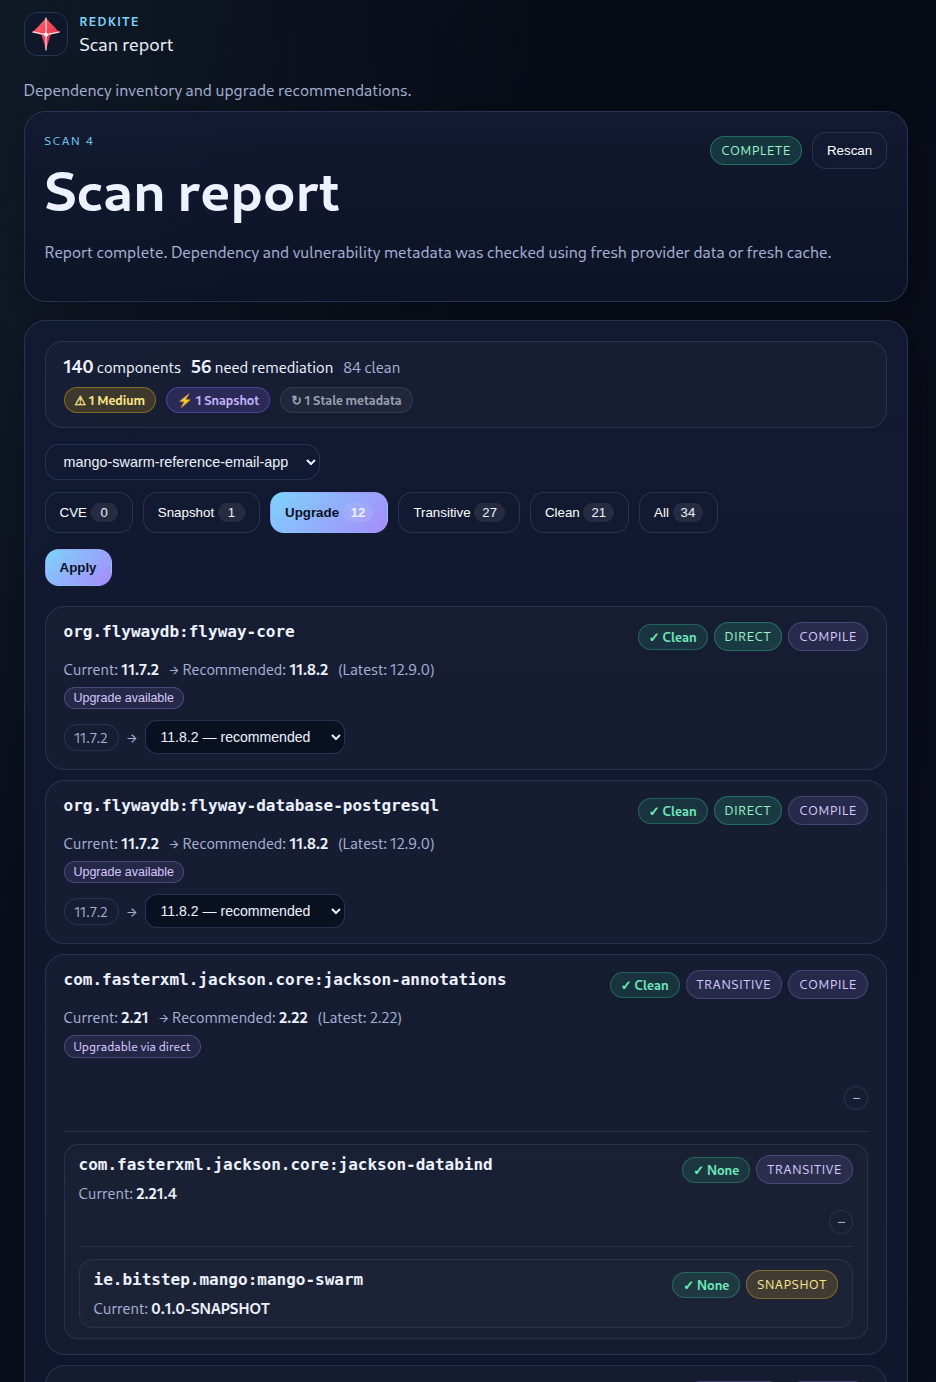
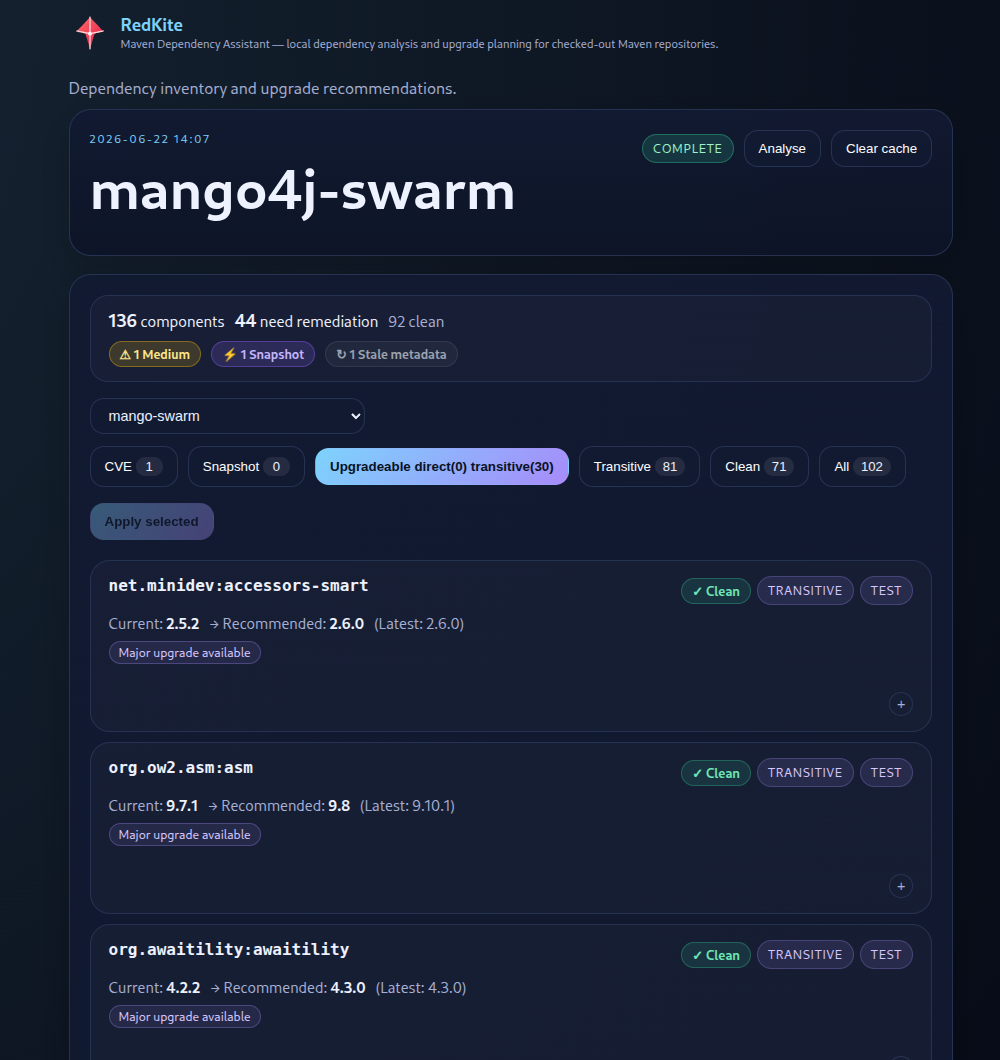
Rename scan→analyse, report→analysis; clean up analysis page header
- Replace all user-visible "Scan"/"Scanning" with "Analyse"/"Analysing"
- Replace all user-visible "report"/"reporting" with "analysis"
- Analysis page: show project name as h1, timestamp as eyebrow; remove UUID
- Analysis page: remove "Analysis report" h1 and completeness message paragraph
- All status badges (Complete/Incomplete/Failed) open the analysis log modal
- Modal title changed to "Analysis log"; badge tooltips say "View analysis log"
- Tagline updated to "local dependency analysis and upgrade planning"

diff --git a/red-kite-server/src/main/java/com/redkite/server/RedKiteServerMain.java b/red-kite-server/src/main/java/com/redkite/server/RedKiteServerMain.java
@@ -179,10 +179,10 @@ public class RedKiteServerMain {
         html.append(pageShellStart(BRAND, "Projects", "Local Maven dependency scans, version checks, and upgrade planning."));
         // Scan new project section
         html.append("<section class=\"card\" style=\"margin-bottom:18px\">");
-        html.append("<h2>Scan project</h2>");
+        html.append("<h2>Analyse project</h2>");
         html.append("<div class=\"scan-path-row\">");
         html.append("<input id=\"scan-path\" class=\"scan-path-input\" type=\"text\" placeholder=\"/full/path/to/project\" autocomplete=\"off\" spellcheck=\"false\" onkeydown=\"if(event.key==='Enter')startScan()\"/>");
-        html.append("<button class=\"button primary\" type=\"button\" onclick=\"startScan()\">Scan</button>");
+        html.append("<button class=\"button primary\" type=\"button\" onclick=\"startScan()\">Analyse</button>");
         html.append("</div>");
         html.append("<div id=\"scan-error\" class=\"scan-error\" style=\"display:none\"></div>");
         html.append("</section>");
@@ -196,7 +196,7 @@ public class RedKiteServerMain {
                         .append("<span class=\"list-title\">").append(escape(project.name())).append("</span>")
                         .append("<span class=\"list-meta\">").append(escape(project.rootPath())).append("</span>")
                         .append("</a>")
-                        .append("<button class=\"button\" type=\"button\" onclick=\"triggerScan(").append(escape(jsString(project.rootPath()))).append(")\">Scan</button>")
+                        .append("<button class=\"button\" type=\"button\" onclick=\"triggerScan(").append(escape(jsString(project.rootPath()))).append(")\">Analyse</button>")
                         .append("</div>");
             }
         } catch (Exception e) {
@@ -211,7 +211,7 @@ public class RedKiteServerMain {
         html.append("<div id=\"scan-overlay\" class=\"scan-overlay\" style=\"display:none\">");
         html.append("<div class=\"scan-overlay-box\">");
         html.append("<div class=\"scan-spinner\"></div>");
-        html.append("<span>Scanning&hellip;</span>");
+        html.append("<span>Analysing&hellip;</span>");
         html.append("<span id=\"scan-status\" class=\"muted\" style=\"font-size:.88rem;max-width:480px;text-align:center\"></span>");
         html.append("</div>");
         html.append("</div>");
@@ -259,7 +259,7 @@ public class RedKiteServerMain {
             html.append("<div style=\"display:flex;align-items:flex-start;justify-content:space-between;gap:16px;flex-wrap:wrap\">");
             html.append("<div><h1>").append(escape(project.name())).append("</h1>");
             html.append("<p class=\"muted\" style=\"margin:2px 0 0\">").append(escape(project.rootPath())).append("</p></div>");
-            html.append("<button class=\"button primary\" type=\"button\" onclick=\"triggerScan(").append(escape(jsString(project.rootPath()))).append(")\">Scan</button>");
+            html.append("<button class=\"button primary\" type=\"button\" onclick=\"triggerScan(").append(escape(jsString(project.rootPath()))).append(")\">Analyse</button>");
             html.append("</div>");
             html.append("<div class=\"proj-meta\">");
             html.append("<div class=\"proj-meta-row\"><span class=\"proj-meta-label\">Settings</span>");
@@ -289,7 +289,7 @@ public class RedKiteServerMain {
                 html.append("<p class=\"muted\">").append(escape(report.completenessMessage())).append("</p>");
                 html.append("</section>");
             }
-            html.append("<section class=\"card\"><h2>Scan history</h2>");
+            html.append("<section class=\"card\"><h2>Analysis history</h2>");
             if (scans.isEmpty()) {
                 html.append("<p class=\"muted\">No scans yet.</p>");
             } else {
@@ -314,7 +314,7 @@ public class RedKiteServerMain {
             // Scan overlay
             html.append("<div id=\"scan-overlay\" class=\"scan-overlay\" style=\"display:none\">");
             html.append("<div class=\"scan-overlay-box\"><div class=\"scan-spinner\"></div>");
-            html.append("<span>Scanning&hellip;</span>");
+            html.append("<span>Analysing&hellip;</span>");
             html.append("<span id=\"scan-status\" class=\"muted\" style=\"font-size:.88rem;max-width:480px;text-align:center\"></span>");
             html.append("</div></div>");
             html.append("<script>");
@@ -351,18 +351,28 @@ public class RedKiteServerMain {
                 metadataByComponent.computeIfAbsent(metadataResult.componentId(), key -> new ArrayList<>()).add(metadataResult);
             }
             StringBuilder html = new StringBuilder();
-            html.append(pageShellStart(BRAND, "Scan report", "Dependency inventory and upgrade recommendations."));
+            html.append(pageShellStart(BRAND, "Analysis", "Dependency inventory and upgrade recommendations."));
+            ProjectEntry project = store.getProject(report.projectId());
+            String projectName = project != null ? project.name() : projectPath;
             html.append("<div class=\"page-grid\">");
             html.append("<section class=\"card span-2\"><div class=\"headline\">");
-            html.append("<div><p class=\"eyebrow\">Scan ").append(report.scanId()).append("</p><h1>Scan report</h1></div>");
+            java.time.format.DateTimeFormatter reportFmt = java.time.format.DateTimeFormatter.ofPattern("yyyy-MM-dd HH:mm").withZone(java.time.ZoneId.systemDefault());
+            html.append("<div>");
+            html.append("<p class=\"eyebrow\">").append(escape(reportFmt.format(report.createdAt()))).append("</p>");
+            if (project != null) {
+                html.append("<h1><a href=\"/projects/").append(escape(project.id())).append("\" style=\"color:inherit;text-decoration:none\">").append(escape(projectName)).append("</a></h1>");
+            } else {
+                html.append("<h1>").append(escape(projectName)).append("</h1>");
+            }
+            html.append("</div>");
             html.append("<div style=\"display:flex;align-items:center;gap:10px;flex-wrap:wrap\">");
-            html.append(report.complete() ? "<span class=\"badge success\">Complete</span>"
-                    : isBuildFailed(report) ? "<span class=\"badge\" style=\"background:rgba(220,38,38,.16);border-color:rgba(220,38,38,.4);color:#fca5a5;cursor:pointer\" title=\"View report log\" onclick=\"document.getElementById('log-modal').style.display='flex'\">Failed</span>"
-                    : "<span class=\"badge warn\" style=\"cursor:pointer\" title=\"View report log\" onclick=\"document.getElementById('log-modal').style.display='flex'\">Incomplete</span>");
-            html.append("<button class=\"button\" type=\"button\" onclick=\"triggerScan(").append(escape(jsString(projectPath))).append(")\">Scan</button>");
+            html.append(report.complete() ? "<span class=\"badge success\" style=\"cursor:pointer\" title=\"View analysis log\" onclick=\"document.getElementById('log-modal').style.display='flex'\">Complete</span>"
+                    : isBuildFailed(report) ? "<span class=\"badge\" style=\"background:rgba(220,38,38,.16);border-color:rgba(220,38,38,.4);color:#fca5a5;cursor:pointer\" title=\"View analysis log\" onclick=\"document.getElementById('log-modal').style.display='flex'\">Failed</span>"
+                    : "<span class=\"badge warn\" style=\"cursor:pointer\" title=\"View analysis log\" onclick=\"document.getElementById('log-modal').style.display='flex'\">Incomplete</span>");
+            html.append("<button class=\"button\" type=\"button\" onclick=\"triggerScan(").append(escape(jsString(projectPath))).append(")\">Analyse</button>");
             html.append("<button class=\"button\" type=\"button\" onclick=\"clearCache(this)\" title=\"Clear version metadata cache\">Clear cache</button>");
             html.append("</div>");
-            html.append("</div><p class=\"muted\">").append(escape(report.completenessMessage())).append("</p>");
+            html.append("</div>");
             html.append("<div id=\"scan-error\" class=\"scan-error\" style=\"display:none;margin-top:12px\"></div>");
             html.append("</section>");
             html.append("<section class=\"card span-2\">");
@@ -370,7 +380,7 @@ public class RedKiteServerMain {
             html.append("</section>");
             html.append("</div>");
             html.append(renderLogModal(report, scanId));
-            html.append("<div id=\"scan-overlay\" class=\"scan-overlay\" style=\"display:none\"><div class=\"scan-overlay-box\"><div class=\"scan-spinner\"></div><span>Scanning&hellip;</span><span id=\"scan-status\" class=\"muted\" style=\"font-size:.88rem;max-width:480px;text-align:center\"></span></div></div>");
+            html.append("<div id=\"scan-overlay\" class=\"scan-overlay\" style=\"display:none\"><div class=\"scan-overlay-box\"><div class=\"scan-spinner\"></div><span>Analysing&hellip;</span><span id=\"scan-status\" class=\"muted\" style=\"font-size:.88rem;max-width:480px;text-align:center\"></span></div></div>");
             html.append(pageShellEnd());
             sendHtml(exchange, 200, html.toString());
             return;
@@ -1901,7 +1911,7 @@ public class RedKiteServerMain {
                 + ".pom-modal-body pre { margin:0; padding:20px; font-family:ui-monospace,monospace; font-size:.83rem; line-height:1.65; white-space:pre; color:var(--text); }"
                 + "[data-theme=light] .nav a:hover,[data-theme=light] .button:hover{border-color:rgba(59,107,236,.5);}[data-theme=light] .list-row:hover,[data-theme=light] .result-row:hover{border-color:rgba(59,107,236,.45);}[data-theme=light] .list-row,[data-theme=light] .result-row,[data-theme=light] .rem-card,[data-theme=light] .inventory-group,[data-theme=light] .inventory-row,[data-theme=light] .rem-banner,[data-theme=light] .stat,[data-theme=light] .tree-card,[data-theme=light] .sub-card{background:rgba(0,0,0,.03);}[data-theme=light] .tab-count{background:rgba(0,0,0,.1);}[data-theme=light] .badge{background:rgba(0,0,0,.06);}[data-theme=light] .badge.success{background:rgba(22,163,74,.12);border-color:rgba(22,163,74,.35);color:#15803d;}[data-theme=light] .badge.warn{background:rgba(180,83,9,.1);border-color:rgba(180,83,9,.3);color:#b45309;}[data-theme=light] .badge.scan-failed{background:rgba(220,38,38,.1);border-color:rgba(220,38,38,.3);color:#dc2626;}[data-theme=light] .scan-history-row{background:rgba(0,0,0,.03);}[data-theme=light] .scan-history-row:hover{border-color:rgba(59,107,236,.45);background:rgba(59,107,236,.06);}[data-theme=light] .badge.neutral{background:rgba(124,58,237,.1);border-color:rgba(124,58,237,.25);color:#6d28d9;}[data-theme=light] .inventory-tab.active{border-color:rgba(59,107,236,.55);box-shadow:inset 0 0 0 1px rgba(59,107,236,.18);}[data-theme=light] .version-choice{background:rgba(0,0,0,.04);}[data-theme=light] .version-choice.active{border-color:rgba(59,107,236,.65);background:rgba(59,107,236,.1);color:var(--text);}[data-theme=light] .button.primary{color:#fff;}[data-theme=light] .rem-module-select:focus{border-color:rgba(59,107,236,.55);}[data-theme=light] .scan-path-input:focus{border-color:rgba(59,107,236,.55);}.theme-picker{position:relative;}.theme-swatches{position:absolute;right:0;top:calc(100% + 8px);display:none;gap:8px;padding:10px 14px;border:1px solid var(--line);border-radius:16px;background:var(--panel);box-shadow:0 8px 32px rgba(0,0,0,.3);z-index:200;}.swatch{width:22px;height:22px;border-radius:50%;border:2px solid transparent;cursor:pointer;transition:transform .15s,border-color .15s;outline:none;padding:0;}.swatch:hover{transform:scale(1.2);}.swatch.active{border-color:var(--text);box-shadow:0 0 0 2px var(--panel);}.theme-btn{padding:9px 11px;display:inline-flex;align-items:center;gap:6px;font-size:.85rem;}.log-modal-box{max-width:min(760px,94vw);}.log-body{flex:1;overflow-y:auto;display:flex;flex-direction:column;}.log-section{padding:18px 22px;border-bottom:1px solid var(--line);}.log-section:last-child{border-bottom:none;}.log-section-warn{background:rgba(255,180,0,.06);}.log-section-title{font-size:.78rem;font-weight:700;text-transform:uppercase;letter-spacing:.1em;color:var(--accent);margin-bottom:10px;display:flex;align-items:center;gap:8px;}.log-title-warn{color:#c97b00;}[data-theme=light] .log-title-warn{color:#9a5800;}.log-text{margin:0 0 6px;color:var(--muted);font-size:.9rem;line-height:1.55;}.log-meta-text{margin:4px 0 0;color:var(--muted);font-size:.82rem;}.log-code-list{display:flex;flex-direction:column;gap:4px;margin-top:8px;}.log-code-line{font-family:ui-monospace,monospace;font-size:.8rem;color:var(--text);background:rgba(0,0,0,.25);padding:5px 10px;border-radius:6px;white-space:pre-wrap;word-break:break-all;}[data-theme=light] .log-code-line{background:rgba(0,0,0,.06);}.log-issue-list{display:flex;flex-direction:column;gap:8px;margin-top:4px;}.log-issue-row{padding:10px 14px;border:1px solid var(--line);border-radius:12px;background:rgba(255,255,255,.02);display:flex;flex-direction:column;gap:6px;}[data-theme=light] .log-issue-row{background:rgba(0,0,0,.03);}.log-issue-name{font-family:ui-monospace,monospace;font-size:.86rem;color:var(--text);}.log-issue-badges{display:flex;flex-wrap:wrap;gap:6px;}.log-issue-msg{font-size:.83rem;color:var(--muted);}"
                 + "</style><script>let inventoryModule='all';let inventoryKind='all';function setActiveTabs(selector, attr, value){document.querySelectorAll(selector).forEach(b=>b.classList.toggle('active', b.dataset[attr]===value));}function applyInventoryFilters(){setActiveTabs('.module-tabs .inventory-tab','module',inventoryModule);setActiveTabs('.kind-tabs .inventory-tab','kind',inventoryKind);document.querySelectorAll('.inventory-group').forEach(group=>{const moduleOk=inventoryModule==='all'||group.dataset.module===inventoryModule;let visible=0;group.querySelectorAll('.inventory-row').forEach(row=>{const kindOk=inventoryKind==='all'||(row.dataset.kind||'transitive')===inventoryKind;const show=moduleOk&&kindOk;row.classList.toggle('is-hidden',!show);if(show)visible++;});group.classList.toggle('is-hidden', !moduleOk||visible===0);});}function filterInventoryModule(module){inventoryModule=module;applyInventoryFilters();}function filterInventoryKind(kind){inventoryKind=kind;applyInventoryFilters();}function selectVersionChoice(button, selectorId){const selector=document.querySelector('[data-selector-id=\"'+selectorId+'\"]');if(!selector){return;}selector.querySelectorAll('.version-choice').forEach(b=>b.classList.toggle('active', b===button));const hidden=document.getElementById(selectorId);if(hidden){hidden.value=button.dataset.version||'';}}let remMode='upgrade';let remModule='all';function applyRemediationFilters(){let cveN=0,snapN=0,upgradeDirectN=0,upgradeTransN=0,transitiveN=0,cleanN=0,allN=0;document.querySelectorAll('.rem-list>.rem-card').forEach(card=>{const modOk=remModule==='all'||card.dataset.module===remModule;let modeOk=true;const isUpgrade=card.dataset.clean!=='true'&&card.dataset.hasvuln!=='true'&&card.dataset.kind!=='snapshot';if(remMode==='cve')modeOk=card.dataset.hasvuln==='true';else if(remMode==='snapshot')modeOk=card.dataset.kind==='snapshot';else if(remMode==='upgrade')modeOk=isUpgrade;else if(remMode==='transitive')modeOk=card.dataset.kind==='transitive';else if(remMode==='clean')modeOk=card.dataset.clean==='true';card.style.display=modOk&&modeOk?'':'none';if(modOk){if(card.dataset.hasvuln==='true')cveN++;if(card.dataset.kind==='snapshot')snapN++;if(isUpgrade){if(card.dataset.kind==='declared')upgradeDirectN++;else upgradeTransN++;}if(card.dataset.kind==='transitive')transitiveN++;if(card.dataset.clean==='true')cleanN++;allN++;}});document.querySelectorAll('.rem-toggle-btn').forEach(btn=>{btn.classList.toggle('primary',btn.dataset.mode===remMode);if(btn.dataset.mode==='upgrade')return;const el=btn.querySelector('.tab-count');if(!el)return;if(btn.dataset.mode==='cve')el.textContent=cveN;else if(btn.dataset.mode==='snapshot')el.textContent=snapN;else if(btn.dataset.mode==='transitive')el.textContent=transitiveN;else if(btn.dataset.mode==='clean')el.textContent=cleanN;else if(btn.dataset.mode==='all')el.textContent=allN;});var ud=document.getElementById('upg-direct-count');if(ud)ud.textContent=upgradeDirectN;var ut=document.getElementById('upg-trans-count');if(ut)ut.textContent=upgradeTransN;}function setRemediationMode(mode){remMode=mode;applyRemediationFilters();}function filterRemediationModule(mod){remModule=mod;applyRemediationFilters();}function applyPomChanges(){const parts=[];document.querySelectorAll('.rem-list select.version-sel').forEach(sel=>{if(!sel.value)return;const card=sel.closest('.rem-card');if(!card||card.style.display==='none')return;const compId=card.dataset.compId;const comp=rk_comps[compId];if(!comp||comp.kind==='transitive')return;if(sel.value!==comp.v)parts.push(encodeURIComponent(compId)+'='+encodeURIComponent(sel.value));});if(!parts.length)return;const btn=document.getElementById('apply-btn');btn.disabled=true;btn.textContent='Generating...';fetch('/api/scans/pom?scanId='+rk_scanId,{method:'POST',headers:{'Content-Type':'application/x-www-form-urlencoded'},body:parts.join('&')}).then(r=>r.ok?r.json():r.text().then(t=>{throw new Error(t);})).then(data=>{btn.textContent='Apply selected';updateApplyButton();showPomModal(data);}).catch(err=>{btn.textContent='Apply selected';updateApplyButton();alert(err.message||'Failed to generate POM.');});}var rk_pomFiles={};function showPomModal(files){var keys=Object.keys(files);if(!keys.length)return;rk_pomFiles=files;var label=keys.length===1?keys[0]:keys.length+' files';document.getElementById('pom-modal-filename').textContent=label;document.getElementById('pom-modal-content').textContent=files[keys[0]];var wb=document.getElementById('pom-write-btn');if(wb)wb.textContent='Write to file';document.getElementById('pom-modal').style.display='flex';}function closePomModal(){document.getElementById('pom-modal').style.display='none';}function closeLogModal(){document.getElementById('log-modal').style.display='none';}function writePomFiles(){if(!Object.keys(rk_pomFiles).length)return;var btn=document.getElementById('pom-write-btn');if(btn){btn.disabled=true;btn.textContent='Writing...';}fetch('/api/scans/pom/write?scanId='+rk_scanId,{method:'POST',headers:{'Content-Type':'application/json'},body:JSON.stringify(rk_pomFiles)}).then(function(r){return r.ok?r.json():r.text().then(function(t){throw new Error(t);});}).then(function(d){closePomModal();}).catch(function(err){if(btn){btn.disabled=false;btn.textContent='Write to file';}alert('Write failed: '+(err.message||err));});}function copyPomContent(){var pre=document.getElementById('pom-modal-content');if(!pre)return;navigator.clipboard.writeText(pre.textContent).then(function(){closePomModal();}).catch(function(){});}function lockChip(chip,text){if(!chip)return;chip.textContent=text;chip.classList.add('selected');chip.onclick=null;chip.style.cursor='default';}function syncPropSiblings(compId,version){var propKey=rk_compPropKey[compId];if(!propKey)return;(rk_propGroups[propKey]||[]).forEach(function(sibId){if(String(sibId)===String(compId))return;var sibSel=document.getElementById('view_'+sibId);if(!sibSel)return;for(var i=0;i<sibSel.options.length;i++){if(sibSel.options[i].value===version){sibSel.selectedIndex=i;sibSel.dataset.chosen='true';var sibCard=sibSel.closest('.rem-card');lockChip(sibCard&&sibCard.querySelector('.reason-chip-btn'),'Upgrading to '+version);break;}}});}function onVersionSelect(sel){sel.dataset.chosen='true';var card=sel.closest('.rem-card');var compId=card&&card.dataset.compId;lockChip(card&&card.querySelector('.reason-chip-btn'),'Upgrading to '+sel.value);syncPropSiblings(compId,sel.value);updateApplyButton();}function applyUpgrade(compId,version,chip){lockChip(chip,'Upgrading to '+version);const sel=document.getElementById('view_'+compId);if(sel&&sel.tagName==='SELECT'){for(var i=0;i<sel.options.length;i++){if(sel.options[i].value===version){sel.selectedIndex=i;sel.dataset.chosen='true';break;}}syncPropSiblings(compId,version);updateApplyButton();sel.scrollIntoView({behavior:'smooth',block:'nearest'});}}function toggleTree(btn){const panel=btn.parentElement.nextElementSibling;if(!panel||!panel.classList.contains('dep-tree-panel'))return;if(panel.style.display!=='none'){panel.style.display='none';btn.textContent='+';return;}if(!panel.hasChildNodes()){const id=btn.dataset.compId;const visited=new Set();let p=btn.closest('.sub-card,.rem-card');while(p){visited.add(p.dataset.compId);p=p.parentElement&&p.parentElement.closest('.sub-card,.rem-card');}panel.innerHTML=(rk_edges[id]||[]).filter(c=>!visited.has(String(c))).map(c=>renderSubCard(String(c),new Set(visited))).join('');}panel.style.display='block';btn.textContent='−';}function renderSubCard(id,visited){const comp=rk_comps[id];if(!comp)return'';const parents=(rk_edges[id]||[]).filter(c=>!visited.has(String(c)));const sevCls='sev-'+comp.sev;const kindCls=comp.kind==='snapshot'?'warn':comp.kind==='declared'?'success':'neutral';const expand=parents.length?'<div class=\"card-expand-row\"><button class=\"card-expand-btn\" type=\"button\" data-comp-id=\"'+id+'\" onclick=\"toggleTree(this)\">+</button></div><div class=\"dep-tree-panel\" style=\"display:none\"></div>':'';var versionMeta;if(comp.kind==='declared'&&comp.rec){versionMeta='<span>Current: <strong>'+comp.v+'</strong> &rarr; <strong>'+comp.rec+'</strong></span>';}else if(comp.kind==='declared'&&comp.latest){versionMeta='<span>Current: <strong>'+comp.v+'</strong> &rarr; <strong>'+comp.latest+'</strong> <span class=\"muted\">(major)</span></span>';}else if(comp.kind==='declared'){versionMeta='<span>Current: <strong>'+comp.v+'</strong> <span class=\"muted\">(at latest)</span></span>';}else{versionMeta='<span>Current: <strong>'+comp.v+'</strong></span>';}var kindLbl=comp.kind;return'<div class=\"sub-card\" data-comp-id=\"'+id+'\"><div class=\"rem-header\"><span class=\"rem-title\">'+comp.g+':'+comp.a+'</span><div class=\"rem-badges\"><span class=\"sev-badge '+sevCls+'\">'+comp.icon+' '+comp.label+'</span><span class=\"badge '+kindCls+'\">'+kindLbl+'</span></div></div><div class=\"rem-meta\">'+versionMeta+'</div>'+expand+'</div>';}function updateApplyButton(){var btn=document.getElementById('apply-btn');if(!btn||btn.dataset.nopom)return;var any=false;document.querySelectorAll('.rem-list select.version-sel').forEach(function(s){if(!s.value)return;var card=s.closest('.rem-card');if(!card||card.style.display==='none')return;var comp=rk_comps[card.dataset.compId];if(comp&&comp.kind!=='transitive'&&s.value!==comp.v)any=true;});btn.disabled=!any;}function setTheme(t){document.documentElement.setAttribute('data-theme',t);fetch('/api/prefs',{method:'POST',headers:{'Content-Type':'application/json'},body:JSON.stringify({theme:t})});document.querySelectorAll('.swatch').forEach(function(s){s.classList.toggle('active',s.dataset.theme===t);});var p=document.getElementById('theme-swatches');if(p)p.style.display='none';}function toggleThemePicker(){var p=document.getElementById('theme-swatches');if(p)p.style.display=p.style.display==='flex'?'none':'flex';}document.addEventListener('click',function(e){var p=document.getElementById('theme-swatches');if(p&&!e.target.closest('#theme-picker'))p.style.display='none';});window.addEventListener('DOMContentLoaded',function(){applyInventoryFilters();applyRemediationFilters();updateApplyButton();var t=document.documentElement.getAttribute('data-theme')||'dark';document.querySelectorAll('.swatch').forEach(function(s){s.classList.toggle('active',s.dataset.theme===t);});});function triggerScan(path){var ov=document.getElementById('scan-overlay');if(ov)ov.style.display='flex';fetch('/api/scan',{method:'POST',headers:{'Content-Type':'application/json'},body:JSON.stringify({path:path})}).then(function(r){return r.ok?r.json():r.text().then(function(t){throw new Error(t);});}).then(function(d){pollScan(d.jobId);}).catch(function(err){var ov=document.getElementById('scan-overlay');if(ov)ov.style.display='none';var e=document.getElementById('scan-error');if(e){e.textContent=err.message||'Scan failed.';e.style.display='block';}});}function clearCache(btn){var orig=btn.textContent;btn.disabled=true;btn.textContent='Clearing…';fetch('/api/metadata/clear',{method:'POST'}).finally(function(){btn.disabled=false;btn.textContent=orig;});}function pollScan(jobId){fetch('/api/scan-status?jobId='+encodeURIComponent(jobId)).then(function(r){if(!r.ok)return r.text().then(function(t){throw new Error('Status check failed ('+r.status+'): '+t);});return r.json();}).then(function(d){if(d.status==='running'){var el=document.getElementById('scan-status');if(el)el.textContent=d.message||'';setTimeout(function(){pollScan(jobId);},500);}else if(d.status==='done'){window.location.href='/scans/'+d.scanId;}else if(d.status==='error'){var ov=document.getElementById('scan-overlay');if(ov)ov.style.display='none';var e=document.getElementById('scan-error');if(e){e.textContent=d.message||'Scan failed.';e.style.display='block';}}}).catch(function(err){var ov=document.getElementById('scan-overlay');if(ov)ov.style.display='none';var e=document.getElementById('scan-error');if(e){e.textContent=err.message||'Status check failed.';e.style.display='block';}});}</script></head><body><div class=\"shell\">"
-                + "<div class=\"topbar\"><div class=\"brand\"><a class=\"brand-logo\" href=\"/\"><img class=\"brand-icon\" src=\"/logo.svg\" alt=\"RedKite logo\"><div class=\"brand-text\"><span class=\"brand-logo-name\">" + escape(brand) + "</span><span class=\"brand-logo-tag\">Maven Dependency Assistant &mdash; local dependency reporting and upgrade planning for checked-out Maven repositories.</span></div></a></div><div class=\"nav\"><div class=\"theme-picker\" id=\"theme-picker\"><button class=\"button theme-btn\" type=\"button\" onclick=\"toggleThemePicker()\" title=\"Change theme\" aria-label=\"Change theme\"><svg width=\"14\" height=\"14\" viewBox=\"0 0 14 14\" fill=\"currentColor\"><circle cx=\"4\" cy=\"9.5\" r=\"2.5\"/><circle cx=\"10\" cy=\"9.5\" r=\"2.5\"/><circle cx=\"7\" cy=\"3.5\" r=\"2.5\"/></svg></button><div class=\"theme-swatches\" id=\"theme-swatches\"><button class=\"swatch\" data-theme=\"dark\" onclick=\"setTheme('dark')\" title=\"Dark\" style=\"background:#818cf8\"></button><button class=\"swatch\" data-theme=\"light\" onclick=\"setTheme('light')\" title=\"Light\" style=\"background:#3b6bec\"></button><button class=\"swatch\" data-theme=\"ocean\" onclick=\"setTheme('ocean')\" title=\"Ocean\" style=\"background:#7dd3fc\"></button><button class=\"swatch\" data-theme=\"dusk\" onclick=\"setTheme('dusk')\" title=\"Dusk\" style=\"background:#e879f9\"></button><button class=\"swatch\" data-theme=\"forest\" onclick=\"setTheme('forest')\" title=\"Forest\" style=\"background:#34d399\"></button><button class=\"swatch\" data-theme=\"ember\" onclick=\"setTheme('ember')\" title=\"Ember\" style=\"background:#fbbf24\"></button></div></div></div></div>"
+                + "<div class=\"topbar\"><div class=\"brand\"><a class=\"brand-logo\" href=\"/\"><img class=\"brand-icon\" src=\"/logo.svg\" alt=\"RedKite logo\"><div class=\"brand-text\"><span class=\"brand-logo-name\">" + escape(brand) + "</span><span class=\"brand-logo-tag\">Maven Dependency Assistant &mdash; local dependency analysis and upgrade planning for checked-out Maven repositories.</span></div></a></div><div class=\"nav\"><div class=\"theme-picker\" id=\"theme-picker\"><button class=\"button theme-btn\" type=\"button\" onclick=\"toggleThemePicker()\" title=\"Change theme\" aria-label=\"Change theme\"><svg width=\"14\" height=\"14\" viewBox=\"0 0 14 14\" fill=\"currentColor\"><circle cx=\"4\" cy=\"9.5\" r=\"2.5\"/><circle cx=\"10\" cy=\"9.5\" r=\"2.5\"/><circle cx=\"7\" cy=\"3.5\" r=\"2.5\"/></svg></button><div class=\"theme-swatches\" id=\"theme-swatches\"><button class=\"swatch\" data-theme=\"dark\" onclick=\"setTheme('dark')\" title=\"Dark\" style=\"background:#818cf8\"></button><button class=\"swatch\" data-theme=\"light\" onclick=\"setTheme('light')\" title=\"Light\" style=\"background:#3b6bec\"></button><button class=\"swatch\" data-theme=\"ocean\" onclick=\"setTheme('ocean')\" title=\"Ocean\" style=\"background:#7dd3fc\"></button><button class=\"swatch\" data-theme=\"dusk\" onclick=\"setTheme('dusk')\" title=\"Dusk\" style=\"background:#e879f9\"></button><button class=\"swatch\" data-theme=\"forest\" onclick=\"setTheme('forest')\" title=\"Forest\" style=\"background:#34d399\"></button><button class=\"swatch\" data-theme=\"ember\" onclick=\"setTheme('ember')\" title=\"Ember\" style=\"background:#fbbf24\"></button></div></div></div></div>"
                 + "<div class=\"subhead muted\">" + escape(subtitle) + "</div>";
     }
 
@@ -1922,7 +1932,7 @@ public class RedKiteServerMain {
         html.append("<div class=\"pom-modal-backdrop\" onclick=\"closeLogModal()\"></div>");
         html.append("<div class=\"pom-modal-box log-modal-box\">");
         html.append("<div class=\"pom-modal-head\">");
-        html.append("<span class=\"pom-modal-filename\">Report log &mdash; scan #").append(scanId).append("</span>");
+        html.append("<span class=\"pom-modal-filename\">Analysis log</span>");
         html.append("<button class=\"button\" type=\"button\" onclick=\"closeLogModal()\">Close</button>");
         html.append("</div>");
         html.append("<div class=\"log-body\">");
@@ -1938,7 +1948,7 @@ public class RedKiteServerMain {
         html.append("</div>");
         html.append("<p class=\"log-text\">").append(escape(report.completenessMessage())).append("</p>");
         if (report.createdAt() != null) {
-            html.append("<p class=\"log-meta-text\">Scanned: ").append(escape(report.createdAt().toString())).append("</p>");
+            html.append("<p class=\"log-meta-text\">Analysed: ").append(escape(report.createdAt().toString())).append("</p>");
         }
         html.append("</div>");
 
@@ -2556,13 +2566,13 @@ public class RedKiteServerMain {
             boolean buildFailed = treeWarnings.stream().anyMatch(w -> w.startsWith("[BUILD_FAILED]"));
             String message;
             if (complete) {
-                message = "Report complete. Dependency and vulnerability metadata was checked using fresh provider data or fresh cache.";
+                message = "Analysis complete. Dependency and vulnerability metadata was checked using fresh provider data or fresh cache.";
             } else if (buildFailed) {
-                message = "Build failed. Maven could not resolve the project model — check the report log for details and rescan after fixing the POM.";
+                message = "Build failed. Maven could not resolve the project model — check the analysis log for details and re-analyse after fixing the POM.";
             } else if (!treeWarnings.isEmpty()) {
-                message = "Report incomplete. " + treeWarnings.size() + " dependency tree line(s) could not be parsed. Rescan after resolving the issues listed below.";
+                message = "Analysis incomplete. " + treeWarnings.size() + " dependency tree line(s) could not be parsed. Re-analyse after resolving the issues listed below.";
             } else {
-                message = "Report incomplete. Some Maven metadata could not be refreshed or was unavailable. The report is still shown with unknown metadata and rescan is suggested.";
+                message = "Analysis incomplete. Some Maven metadata could not be refreshed or was unavailable. The analysis is still shown with unknown metadata and re-analysis is suggested.";
             }
             return new ScanReport(scanId, projectId, complete, message, Instant.now(), input.components(), input.dependencyEdges(), List.copyOf(vulnerabilityFindings), recs, snapshotRisks, metadata, treeWarnings);
         }